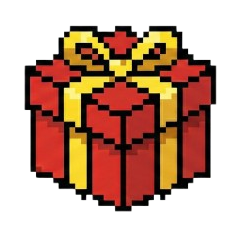
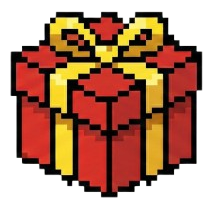
new StartScreen WIP and added some new images

diff --git a/src/main/java/view/StartScreen.java b/src/main/java/view/StartScreen.java
@@ -5,6 +5,7 @@ import main.java.view.overlays.OverlayType;
 import main.java.view.overlays.SettingsOverlay;
 
 import javax.swing.*;
+import java.awt.*;
 
 public class StartScreen {
     private JPanel mainPanel;
@@ -17,8 +18,7 @@ public class StartScreen {
 
     public StartScreen(NavigationController nav) {
         this.nav = nav;
-
-        // listener to open the GameSettings overlay
+        initUI();
         startGameBtn.addActionListener(e -> {
             OverlayController.getInstance().showOverlay(OverlayType.SETTINGS);
         });
@@ -35,6 +35,55 @@ public class StartScreen {
                 System.exit(0);
             }
         });
+    }
+
+    private void initUI() {
+        mainPanel = new JPanel(new BorderLayout());
+        mainPanel.setBackground(ColorsInUse.BG_COLOR.get());
+
+        startScreenLabel = new JLabel("KOALA MINESWEEPER");
+        startScreenLabel.setForeground(java.awt.Color.WHITE);
+        startScreenLabel.setFont(FontsInUse.PIXEL2.getSize(60f));
+        startScreenLabel.setHorizontalAlignment(SwingConstants.CENTER);
+        startScreenLabel.setBorder(BorderFactory.createEmptyBorder(80, 0, 0, 0));
+        mainPanel.add(startScreenLabel, BorderLayout.NORTH);
+
+        startGameBtn = new JButton("START GAME");
+        gameHistoryBtn = new JButton("GAME HISTORY");
+        mngQuestionsBtn = new JButton("MANAGE QUESTIONS");
+
+        java.awt.Font btnFont = FontsInUse.PIXEL.getSize(32f);
+        JButton[] centerButtons = {startGameBtn, gameHistoryBtn, mngQuestionsBtn};
+
+        JPanel centerButtonContainer = new JPanel();
+        centerButtonContainer.setLayout(new BoxLayout(centerButtonContainer, BoxLayout.Y_AXIS));
+        centerButtonContainer.setBackground(ColorsInUse.BG_COLOR.get());
+
+        for (JButton btn : centerButtons) {
+            btn.setFont(btnFont);
+            btn.setFocusable(false);
+            btn.setAlignmentX(Component.CENTER_ALIGNMENT);
+            btn.setMaximumSize(new java.awt.Dimension(350, 60));
+            btn.setPreferredSize(new java.awt.Dimension(350, 60));
+
+            centerButtonContainer.add(btn);
+            centerButtonContainer.add(Box.createRigidArea(new java.awt.Dimension(0, 20)));
+        }
+
+        JPanel centerWrapper = new JPanel(new GridBagLayout());
+        centerWrapper.setBackground(ColorsInUse.BG_COLOR.get());
+        centerWrapper.add(centerButtonContainer);
+        mainPanel.add(centerWrapper, BorderLayout.CENTER);
+
+        exitBtn = new JButton("Exit");
+        exitBtn.setFont(btnFont);
+        exitBtn.setFocusable(false);
+        exitBtn.setPreferredSize(new java.awt.Dimension(120, 45));
+
+        JPanel bottomPanel = new JPanel(new FlowLayout(FlowLayout.LEFT));
+        bottomPanel.setBackground(ColorsInUse.BG_COLOR.get());
+        bottomPanel.add(exitBtn);
+        mainPanel.add(bottomPanel, BorderLayout.SOUTH);
     }
 
     public JPanel getMainPanel() {

diff --git a/src/main/java/view/GameScreen.java b/src/main/java/view/GameScreen.java
@@ -108,7 +108,7 @@ public class GameScreen extends JPanel implements ActionMadeListener, MinesLeftL
         player1MinesLeftLabel = new JLabel("x" + session.getLeftBoard().getMinesLeft());
         player1MinesLeftLabel.setForeground(ColorsInUse.TEXT.get());
         player1MinesLeftLabel.setFont(font);
-        java.net.URL bombUrl = getClass().getResource("/bomb-pixel.png");
+        java.net.URL bombUrl = getClass().getResource("/pixel-mine.png");
         if (bombUrl != null) { ImageIcon icon = new ImageIcon(bombUrl);
             Image scaled = icon.getImage().getScaledInstance(32, 32, Image.SCALE_SMOOTH);
             player1MinesLeftLabel.setIcon(new ImageIcon(scaled));
@@ -169,7 +169,7 @@ public class GameScreen extends JPanel implements ActionMadeListener, MinesLeftL
         java.net.URL koalaUrl = getClass().getResource(koalaPath);
         if (koalaUrl != null) {
             ImageIcon icon = new ImageIcon(koalaUrl);
-            Image scaled = icon.getImage().getScaledInstance(32, 32, Image.SCALE_SMOOTH);
+            Image scaled = icon.getImage().getScaledInstance(42, 42, Image.SCALE_SMOOTH);
             difficultyLabel.setIcon(new ImageIcon(scaled));
             difficultyLabel.setIconTextGap(10);
         }

diff --git a/src/main/java/view/TileView.java b/src/main/java/view/TileView.java
@@ -77,11 +77,11 @@ public class TileView extends JButton implements RevealListener, FlagListener, S
         if (tile.getIsFlagged())
             setupIcon(null, false);
         if (type.equals("M")) {
-            setupIcon("/bomb-pixel.png", true);
+            setupIcon("/pixel-mine.png", true);
             setEnabled(false);
         }
         else if (type.equals("S")) {
-            setupIcon("/pixel-gift.png", false);
+            setupIcon("/gift-pixel.png", false);
             setTileColor(ColorsInUse.SURPRISE_TILE.get());
             setEnabled(true);
         }
